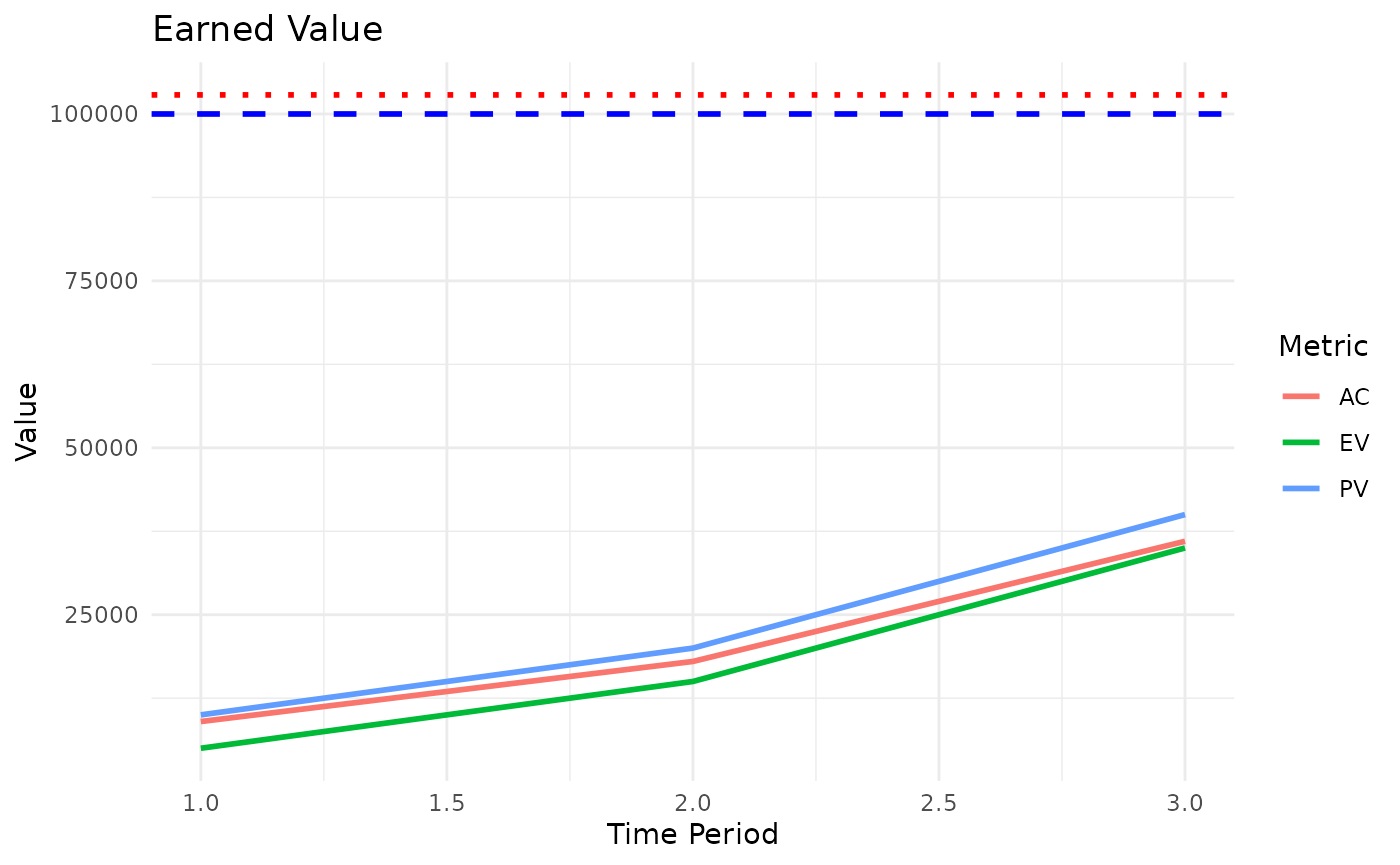
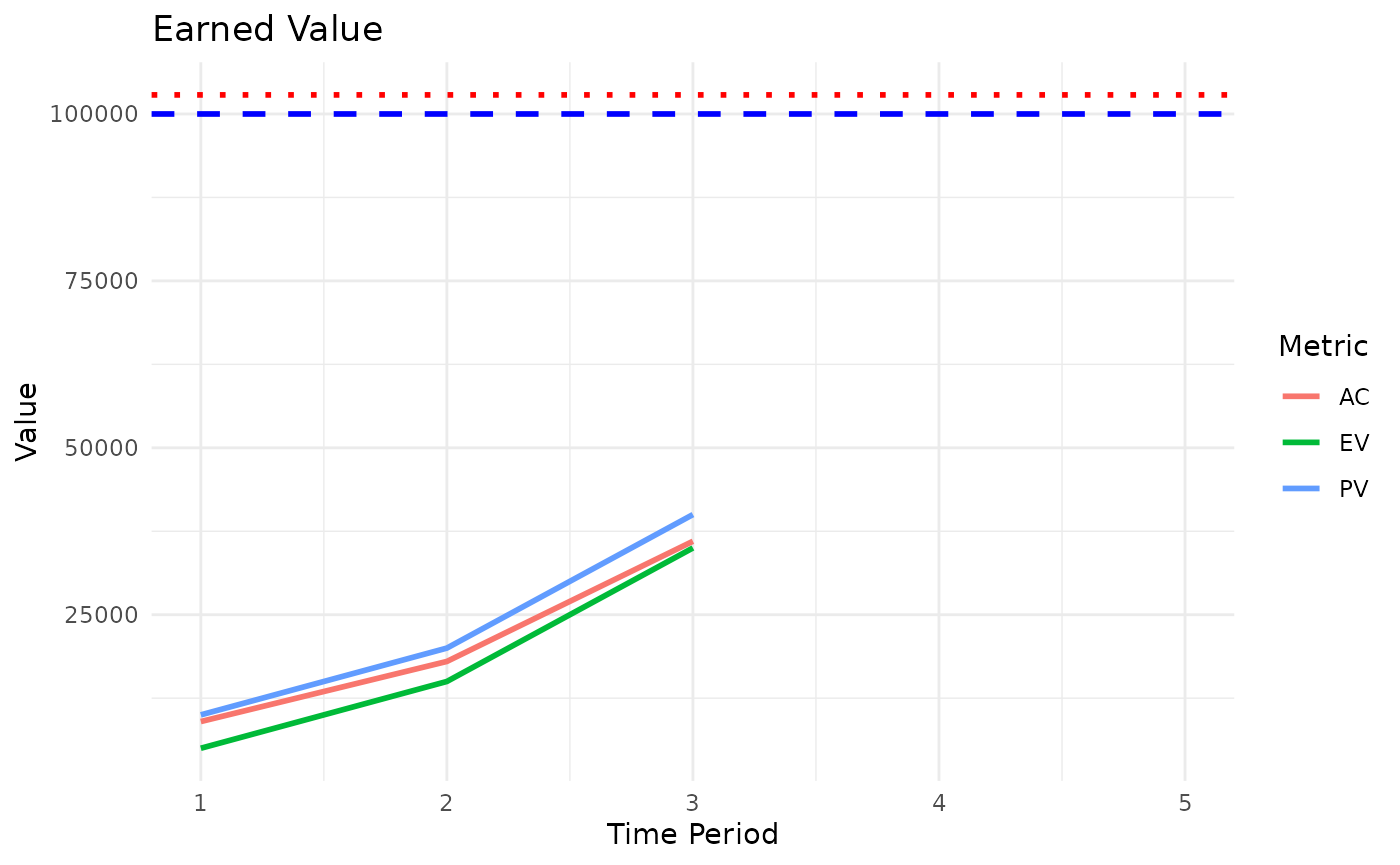
Deploying to gh-pages from @ paulgovan/PRA@cd4948781fa770d22c0cfc697002ccbb96ed0110 🚀

diff --git a/articles/sigmoidal.html b/articles/sigmoidal.html
@@ -74,8 +74,8 @@
 
     
     
-<p>Learning curves are a valuable way to represent how a team or
-individual enhances efficiency and performance over time as they gain
+<p>Learning curves are a useful way to represent how a team or
+individual improves efficiency and performance over time as they gain
 experience. These curves aid in comprehending and forecasting the time
 and resources required for future tasks. The primary insights from
 learning curves include:</p>
@@ -112,7 +112,7 @@ approached.</p></li>
 <p>where:</p>
 <ul>
 <li><p>L(t) is the learning outcome (e.g., efficiency, proficiency) at
-time</p></li>
+time t</p></li>
 <li><p>L<sub>max</sub> is the maximum learning outcome (the
 plateau).</p></li>
 <li><p>k is the growth rate, determining how quickly the learning
@@ -147,29 +147,29 @@ progresses as expected.</p></li>
 <code class="sourceCode R"><span><span class="kw"><a href="https://rdrr.io/r/base/library.html" class="external-link">library</a></span><span class="op">(</span><span class="va"><a href="https://paulgovan.github.io/PRA/">PRA</a></span><span class="op">)</span></span></code></pre></div>
 <p>Then, set up a data frame of time and completion percentage data:</p>
 <div class="sourceCode" id="cb2"><pre class="downlit sourceCode r">
-<code class="sourceCode R"><span><span class="va">data</span> <span class="op">&lt;-</span> <span class="fu"><a href="https://rdrr.io/r/base/data.frame.html" class="external-link">data.frame</a></span><span class="op">(</span>time <span class="op">=</span> <span class="fl">1</span><span class="op">:</span><span class="fl">10</span>, completion <span class="op">=</span> <span class="fu"><a href="https://rdrr.io/r/base/c.html" class="external-link">c</a></span><span class="op">(</span><span class="fl">5</span>, <span class="fl">15</span>, <span class="fl">40</span>, <span class="fl">60</span>, <span class="fl">70</span>, <span class="fl">75</span>, <span class="fl">80</span>, <span class="fl">85</span>, <span class="fl">90</span>, <span class="fl">95</span><span class="op">)</span><span class="op">)</span></span></code></pre></div>
+<code class="sourceCode R"><span><span class="va">data</span> <span class="op">&lt;-</span> <span class="fu"><a href="https://rdrr.io/r/base/data.frame.html" class="external-link">data.frame</a></span><span class="op">(</span>time <span class="op">=</span> <span class="fl">1</span><span class="op">:</span><span class="fl">9</span>, completion <span class="op">=</span> <span class="fu"><a href="https://rdrr.io/r/base/c.html" class="external-link">c</a></span><span class="op">(</span><span class="fl">5</span>, <span class="fl">15</span>, <span class="fl">40</span>, <span class="fl">60</span>, <span class="fl">70</span>, <span class="fl">75</span>, <span class="fl">80</span>, <span class="fl">85</span>, <span class="fl">90</span><span class="op">)</span><span class="op">)</span></span></code></pre></div>
 <p>Fit a logistic model to the data:</p>
 <div class="sourceCode" id="cb3"><pre class="downlit sourceCode r">
 <code class="sourceCode R"><span><span class="va">fit</span> <span class="op">&lt;-</span> <span class="fu"><a href="../reference/fit_sigmoidal.html">fit_sigmoidal</a></span><span class="op">(</span><span class="va">data</span>, <span class="st">"time"</span>, <span class="st">"completion"</span>, <span class="st">"logistic"</span><span class="op">)</span></span></code></pre></div>
 <p>Use the model to predict future completion times:</p>
 <div class="sourceCode" id="cb4"><pre class="downlit sourceCode r">
-<code class="sourceCode R"><span><span class="va">predictions</span> <span class="op">&lt;-</span> <span class="fu"><a href="../reference/predict_sigmoidal.html">predict_sigmoidal</a></span><span class="op">(</span><span class="va">fit</span>, <span class="fu"><a href="https://rdrr.io/r/base/seq.html" class="external-link">seq</a></span><span class="op">(</span><span class="fu"><a href="https://rdrr.io/r/base/Extremes.html" class="external-link">min</a></span><span class="op">(</span><span class="va">data</span><span class="op">$</span><span class="va">time</span><span class="op">)</span>, <span class="fu"><a href="https://rdrr.io/r/base/Extremes.html" class="external-link">max</a></span><span class="op">(</span><span class="va">data</span><span class="op">$</span><span class="va">time</span><span class="op">)</span>,</span>
+<code class="sourceCode R"><span><span class="va">predictions</span> <span class="op">&lt;-</span> <span class="fu"><a href="../reference/predict_sigmoidal.html">predict_sigmoidal</a></span><span class="op">(</span><span class="va">fit</span>, <span class="fu"><a href="https://rdrr.io/r/base/seq.html" class="external-link">seq</a></span><span class="op">(</span><span class="fu"><a href="https://rdrr.io/r/base/Extremes.html" class="external-link">min</a></span><span class="op">(</span><span class="va">data</span><span class="op">$</span><span class="va">time</span><span class="op">)</span>, <span class="fu"><a href="https://rdrr.io/r/base/Extremes.html" class="external-link">max</a></span><span class="op">(</span><span class="va">data</span><span class="op">$</span><span class="va">time</span><span class="op">)</span> <span class="op">+</span> <span class="fl">1</span>,</span>
 <span>  length.out <span class="op">=</span> <span class="fl">100</span><span class="op">)</span>, <span class="st">"logistic"</span><span class="op">)</span></span></code></pre></div>
 <p>Plot the results:</p>
 <div class="sourceCode" id="cb5"><pre class="downlit sourceCode r">
 <code class="sourceCode R"><span><span class="va">p</span> <span class="op">&lt;-</span> <span class="fu">ggplot2</span><span class="fu">::</span><span class="fu"><a href="https://ggplot2.tidyverse.org/reference/ggplot.html" class="external-link">ggplot</a></span><span class="op">(</span><span class="va">data</span>, <span class="fu">ggplot2</span><span class="fu">::</span><span class="fu"><a href="https://ggplot2.tidyverse.org/reference/aes_.html" class="external-link">aes_string</a></span><span class="op">(</span>x <span class="op">=</span> <span class="st">"time"</span>, y <span class="op">=</span> <span class="st">"completion"</span><span class="op">)</span><span class="op">)</span> <span class="op">+</span></span>
 <span>  <span class="fu">ggplot2</span><span class="fu">::</span><span class="fu"><a href="https://ggplot2.tidyverse.org/reference/geom_point.html" class="external-link">geom_point</a></span><span class="op">(</span><span class="op">)</span> <span class="op">+</span></span>
 <span>  <span class="fu">ggplot2</span><span class="fu">::</span><span class="fu"><a href="https://ggplot2.tidyverse.org/reference/geom_path.html" class="external-link">geom_line</a></span><span class="op">(</span>data <span class="op">=</span> <span class="va">predictions</span>, <span class="fu">ggplot2</span><span class="fu">::</span><span class="fu"><a href="https://ggplot2.tidyverse.org/reference/aes.html" class="external-link">aes</a></span><span class="op">(</span>x <span class="op">=</span> <span class="va">x</span>, y <span class="op">=</span> <span class="va">pred</span><span class="op">)</span>, color <span class="op">=</span> <span class="st">"red"</span><span class="op">)</span> <span class="op">+</span></span>
-<span>  <span class="fu">ggplot2</span><span class="fu">::</span><span class="fu"><a href="https://ggplot2.tidyverse.org/reference/labs.html" class="external-link">labs</a></span><span class="op">(</span>title <span class="op">=</span> <span class="st">"Fitted Logistic Model"</span>, x <span class="op">=</span> <span class="st">"time"</span>, y <span class="op">=</span> <span class="st">"completion %"</span><span class="op">)</span> <span class="op">+</span> <span class="fu">ggplot2</span><span class="fu">::</span><span class="fu"><a href="https://ggplot2.tidyverse.org/reference/ggtheme.html" class="external-link">theme_minimal</a></span><span class="op">(</span><span class="op">)</span></span>
+<span>  <span class="fu">ggplot2</span><span class="fu">::</span><span class="fu"><a href="https://ggplot2.tidyverse.org/reference/labs.html" class="external-link">labs</a></span><span class="op">(</span>title <span class="op">=</span> <span class="st">"Fitted Logistic Model"</span>, x <span class="op">=</span> <span class="st">"time"</span>, y <span class="op">=</span> <span class="st">"completion %"</span><span class="op">)</span></span>
 <span><span class="va">p</span></span></code></pre></div>
 <p><img src="sigmoidal_files/figure-html/unnamed-chunk-5-1.png" width="700"></p>
 </div>
 <div class="section level2">
 <h2 id="summary">Summary<a class="anchor" aria-label="anchor" href="#summary"></a>
 </h2>
-<p>In summary, learning curves provide valuable insights into how
-performance improves with experience, and sigmoidal functions offer a
-mathematical model to describe and predict these improvements in project
+<p>Learning curves provide valuable insights into how performance
+improves with experience, and sigmoidal functions offer a mathematical
+model to describe and predict these improvements in project
 management.</p>
 </div>
   </main><aside class="col-md-3"><nav id="toc" aria-label="Table of contents"><h2>On this page</h2>

diff --git a/articles/evm.html b/articles/evm.html
@@ -78,10 +78,9 @@
 to measure project performance and progress in an objective manner. It
 integrates project scope, time (schedule), and cost parameters to
 provide accurate forecasts of project performance issues.</p>
-<p>Here are the key components and common equations used in EVM:</p>
-<div class="section level3">
-<h3 id="key-components">Key Components<a class="anchor" aria-label="anchor" href="#key-components"></a>
-</h3>
+<div class="section level2">
+<h2 id="key-components">Key Components<a class="anchor" aria-label="anchor" href="#key-components"></a>
+</h2>
 <ol style="list-style-type: decimal">
 <li>
 <strong>Budget at Completion (BAC):</strong> The total budget for
@@ -101,41 +100,31 @@ performed expressed in terms of the approved budget for that work.</li>
 </ol>
 <p><math display="block" xmlns="http://www.w3.org/1998/Math/MathML"><semantics><mrow><mi>E</mi><mi>V</mi><mo>=</mo><mi>B</mi><mi>A</mi><mi>C</mi><mo>*</mo><mi>A</mi><mi>c</mi><mi>t</mi><mi>u</mi><mi>a</mi><mi>l</mi><mi>P</mi><mi>e</mi><mi>r</mi><mi>c</mi><mi>e</mi><mi>n</mi><mi>t</mi><mi>C</mi><mi>o</mi><mi>m</mi><mi>p</mi><mi>l</mi><mi>e</mi><mi>t</mi><mi>e</mi></mrow><annotation encoding="application/x-tex">EV = BAC * ActualPercentComplete</annotation></semantics></math></p>
 </div>
-<div class="section level3">
-<h3 id="common-evm-equations">Common EVM Equations<a class="anchor" aria-label="anchor" href="#common-evm-equations"></a>
-</h3>
+<div class="section level2">
+<h2 id="common-evm-equations">Common EVM Equations<a class="anchor" aria-label="anchor" href="#common-evm-equations"></a>
+</h2>
 <ol style="list-style-type: decimal">
 <li>
-<p><strong>Cost Variance (CV):</strong></p>
+<p><strong>Cost Variance (CV):</strong> Positive CV indicates under
+budget and negative CV indicates over budget.</p>
 <p><math display="block" xmlns="http://www.w3.org/1998/Math/MathML"><semantics><mrow><mi>C</mi><mi>V</mi><mo>=</mo><mi>E</mi><mi>V</mi><mo>−</mo><mi>A</mi><mi>C</mi></mrow><annotation encoding="application/x-tex">CV = EV - AC</annotation></semantics></math></p>
-<ul>
-<li>Positive CV indicates under budget.</li>
-<li>Negative CV indicates over budget.</li>
-</ul>
 </li>
 <li>
-<p><strong>Schedule Variance (SV):</strong></p>
+<p><strong>Schedule Variance (SV):</strong> Positive SV indicates
+ahead of schedule and negative SV indicates behind schedule.</p>
 <p><math display="block" xmlns="http://www.w3.org/1998/Math/MathML"><semantics><mrow><mi>S</mi><mi>V</mi><mo>=</mo><mi>E</mi><mi>V</mi><mo>−</mo><mi>P</mi><mi>V</mi></mrow><annotation encoding="application/x-tex">SV = EV - PV</annotation></semantics></math></p>
-<ul>
-<li>Positive SV indicates ahead of schedule.</li>
-<li>Negative SV indicates behind schedule.</li>
-</ul>
 </li>
 <li>
-<p><strong>Cost Performance Index (CPI):</strong></p>
+<p><strong>Cost Performance Index (CPI):</strong> CPI &gt; 1
+indicates cost efficiency and CPI &lt; 1 indicates cost
+inefficiency.</p>
 <p><math display="block" xmlns="http://www.w3.org/1998/Math/MathML"><semantics><mrow><mi>C</mi><mi>P</mi><mi>I</mi><mo>=</mo><mfrac><mrow><mi>E</mi><mi>V</mi></mrow><mrow><mi>A</mi><mi>C</mi></mrow></mfrac></mrow><annotation encoding="application/x-tex">CPI = \frac{EV}{AC}</annotation></semantics></math></p>
-<ul>
-<li>CPI &gt; 1 indicates cost efficiency.</li>
-<li>CPI &lt; 1 indicates cost inefficiency.</li>
-</ul>
 </li>
 <li>
-<p><strong>Schedule Performance Index (SPI):</strong></p>
+<p><strong>Schedule Performance Index (SPI):</strong> SPI &gt; 1
+indicates schedule efficiency and SPI &lt; 1 indicates schedule
+inefficiency.</p>
 <p><math display="block" xmlns="http://www.w3.org/1998/Math/MathML"><semantics><mrow><mi>S</mi><mi>P</mi><mi>I</mi><mo>=</mo><mfrac><mrow><mi>E</mi><mi>V</mi></mrow><mrow><mi>P</mi><mi>V</mi></mrow></mfrac></mrow><annotation encoding="application/x-tex">SPI = \frac{EV}{PV}</annotation></semantics></math></p>
-<ul>
-<li>SPI &gt; 1 indicates schedule efficiency.</li>
-<li>SPI &lt; 1 indicates schedule inefficiency.</li>
-</ul>
 </li>
 <li>
 <p><strong>Estimate at Completion (EAC):</strong></p>
@@ -144,7 +133,7 @@ performed expressed in terms of the approved budget for that work.</li>
 </ol>
 </div>
 <div class="section level2">
-<h2 id="example">Example<a class="anchor" aria-label="anchor" href="#example"></a>
+<h2 id="examples">Examples<a class="anchor" aria-label="anchor" href="#examples"></a>
 </h2>
 <p>First, load the package:</p>
 <div class="sourceCode" id="cb1"><pre class="downlit sourceCode r">
@@ -230,6 +219,7 @@ is 0.97</p>
 <span>       x <span class="op">=</span> <span class="st">'Time Period'</span>,</span>
 <span>       y <span class="op">=</span> <span class="st">'Value'</span>,</span>
 <span>       color <span class="op">=</span> <span class="st">'Metric'</span><span class="op">)</span> <span class="op">+</span></span>
+<span>  <span class="fu">ggplot2</span><span class="fu">::</span><span class="fu"><a href="https://ggplot2.tidyverse.org/reference/lims.html" class="external-link">xlim</a></span><span class="op">(</span><span class="fl">1</span>, <span class="fl">5</span><span class="op">)</span> <span class="op">+</span></span>
 <span>  <span class="fu">ggplot2</span><span class="fu">::</span><span class="fu"><a href="https://ggplot2.tidyverse.org/reference/ggtheme.html" class="external-link">theme_minimal</a></span><span class="op">(</span><span class="op">)</span></span>
 <span></span>
 <span><span class="co"># Print the plot</span></span>

diff --git a/index.html b/index.html
@@ -62,7 +62,7 @@
 </nav><div class="container template-home">
 <div class="row">
   <main id="main" class="col-md-9"><div class="section level2">
-<h2 id="pra-project-risk-analysis-in-r">PRA: Project Risk Analysis in R<a class="anchor" aria-label="anchor" href="#pra-project-risk-analysis-in-r"></a>
+<h2 id="pra-project-risk-analysis">PRA: Project Risk Analysis<a class="anchor" aria-label="anchor" href="#pra-project-risk-analysis"></a>
 </h2>
 <p><img src="https://github.com/paulgovan/PRA/blob/main/inst/logo.png?raw=true" style="width:25.0%"></p>
 <!-- badges: start -->
@@ -72,14 +72,13 @@
 <h2 id="key-features">Key features:<a class="anchor" aria-label="anchor" href="#key-features"></a>
 </h2>
 <ul>
-<li>The Second Moment Method</li>
+<li>Second Moment Analysis</li>
 <li>Monte Carlo Simulation</li>
 <li>Contingency Analysis</li>
 <li>Sensitivity Analysis</li>
 <li>Earned Value Management</li>
 <li>Learning Curves</li>
 <li>Design Structure Matrices</li>
-<li>And more!</li>
 </ul>
 </div>
 <div class="section level2">
@@ -120,11 +119,11 @@
 <p>To calculate the mean of the total duration:</p>
 <div class="sourceCode" id="cb7"><pre class="downlit sourceCode r">
 <code class="sourceCode R"><span><span class="fu"><a href="https://rdrr.io/r/base/cat.html" class="external-link">cat</a></span><span class="op">(</span><span class="st">"Mean Total Duration is "</span>, <span class="fu"><a href="https://rdrr.io/r/base/Round.html" class="external-link">round</a></span><span class="op">(</span><span class="va">results</span><span class="op">$</span><span class="va">total_mean</span>, <span class="fl">2</span><span class="op">)</span><span class="op">)</span></span></code></pre></div>
-<p>Mean Total Duration is 38.6</p>
+<p>Mean Total Duration is 38.65</p>
 <p>To calculate the variance of the total duration:</p>
 <div class="sourceCode" id="cb8"><pre class="downlit sourceCode r">
 <code class="sourceCode R"><span><span class="fu"><a href="https://rdrr.io/r/base/cat.html" class="external-link">cat</a></span><span class="op">(</span><span class="st">"Variance around the Total Duration is "</span>, <span class="fu"><a href="https://rdrr.io/r/base/Round.html" class="external-link">round</a></span><span class="op">(</span><span class="va">results</span><span class="op">$</span><span class="va">total_variance</span>, <span class="fl">2</span><span class="op">)</span><span class="op">)</span></span></code></pre></div>
-<p>Variance around the Total Duration is 19.29</p>
+<p>Variance around the Total Duration is 19.79</p>
 <p>To build a histogram of the total duration:</p>
 <div class="sourceCode" id="cb9"><pre class="downlit sourceCode r">
 <code class="sourceCode R"><span><span class="fu"><a href="https://rdrr.io/r/graphics/hist.html" class="external-link">hist</a></span><span class="op">(</span><span class="va">results</span><span class="op">$</span><span class="va">total_distribution</span>, breaks <span class="op">=</span> <span class="fl">50</span>, main <span class="op">=</span> <span class="st">"Distribution of Total Project Duration"</span>, </span>

diff --git a/articles/MCS.html b/articles/MCS.html
@@ -127,7 +127,7 @@ issues and plan accordingly to improve the chances of project
 success.</p>
 </div>
 <div class="section level2">
-<h2 id="example">Example<a class="anchor" aria-label="anchor" href="#example"></a>
+<h2 id="examples">Examples<a class="anchor" aria-label="anchor" href="#examples"></a>
 </h2>
 <p>First, load the package:</p>
 <div class="sourceCode" id="cb1"><pre class="downlit sourceCode r">
@@ -179,7 +179,7 @@ level that the project will be completed on time, find the project
 duration at the 95th percentile of the schedule distribution.</p></li>
 </ul>
 <div class="section level3">
-<h3 id="example-1">Example<a class="anchor" aria-label="anchor" href="#example-1"></a>
+<h3 id="example">Example<a class="anchor" aria-label="anchor" href="#example"></a>
 </h3>
 <p>For the previous example, calculate the contingency with a confidence
 level of 95%:</p>
@@ -229,7 +229,7 @@ on the output.</p></li>
 </ul>
 </div>
 <div class="section level3">
-<h3 id="example-2">Example<a class="anchor" aria-label="anchor" href="#example-2"></a>
+<h3 id="example-1">Example<a class="anchor" aria-label="anchor" href="#example-1"></a>
 </h3>
 <p>For the previous example, calculate the sensitivity of each task:</p>
 <div class="sourceCode" id="cb9"><pre class="downlit sourceCode r">
